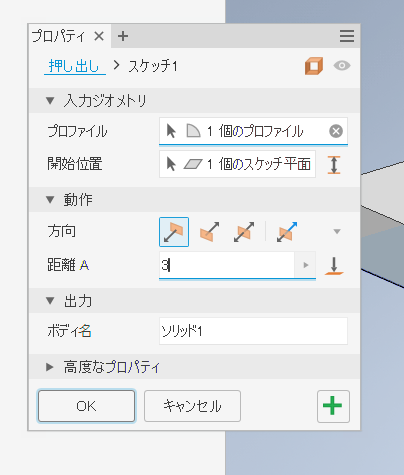
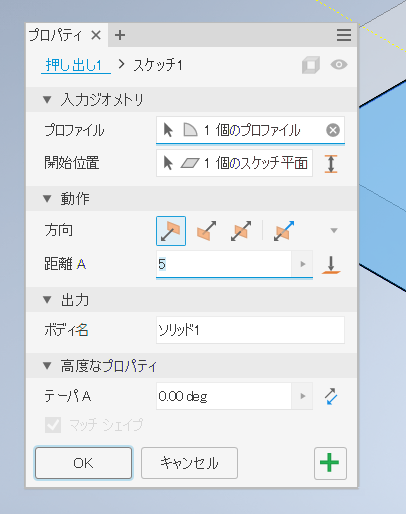
fix: magnet_01 5mm

diff --git a/magnet/01.md b/magnet/01.md
@@ -116,11 +116,11 @@
 
 ![2024-06-09_150226](./images/2024-06-09_150226.png)
 
-「距離A」に`3`と入力し、`OK`をクリックする。
+「距離A」に`5`と入力し、`OK`をクリックする。
 
 ![2026-05-01_124829](./images/2026-05-01_124829.png)
 
-スケッチが厚さ`3mm`の立体になる。
+スケッチが厚さ`5mm`の立体になる。
 
 ![2026-05-01_124943](./images/2026-05-01_124943.png)
 
@@ -211,7 +211,7 @@
 ![2024-06-09_153355](./images/2024-06-09_153355.png)
 
 「ねじ穴」を選択しタイプを`ISO Metric Profile`、サイズを`3`にする。
-長さは貫通すればよいので、`3mm`以上ならいくらでもよい。
+長さは貫通すればよいので、`5mm`以上ならいくらでもよい。
 設定したら`OK`をクリックする。
 
 ![2026-05-01_133056](./images/2026-05-01_133056.png)
